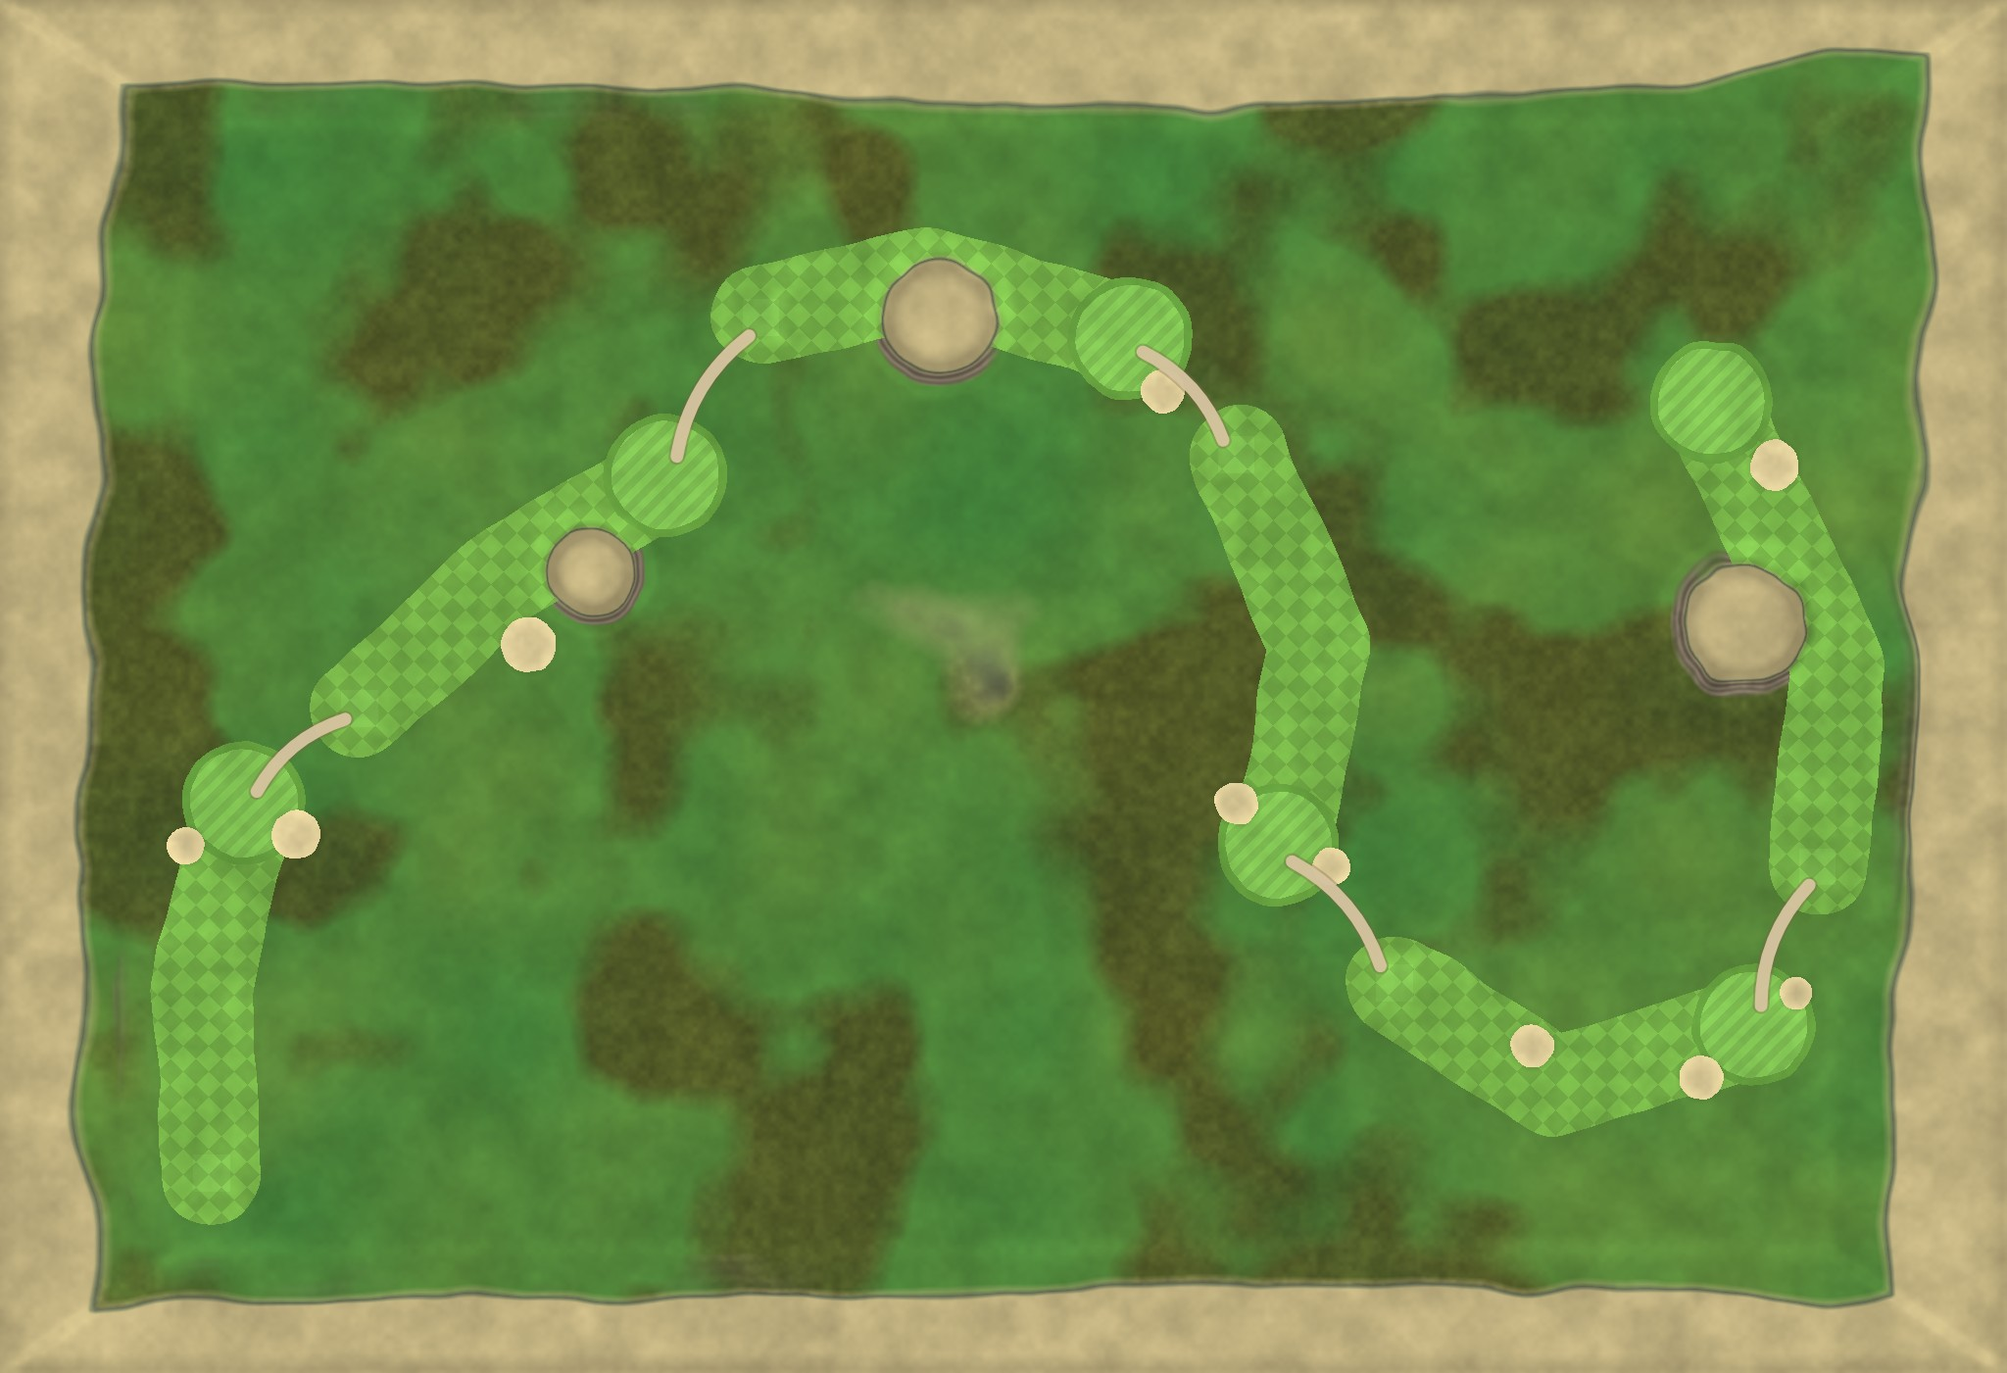
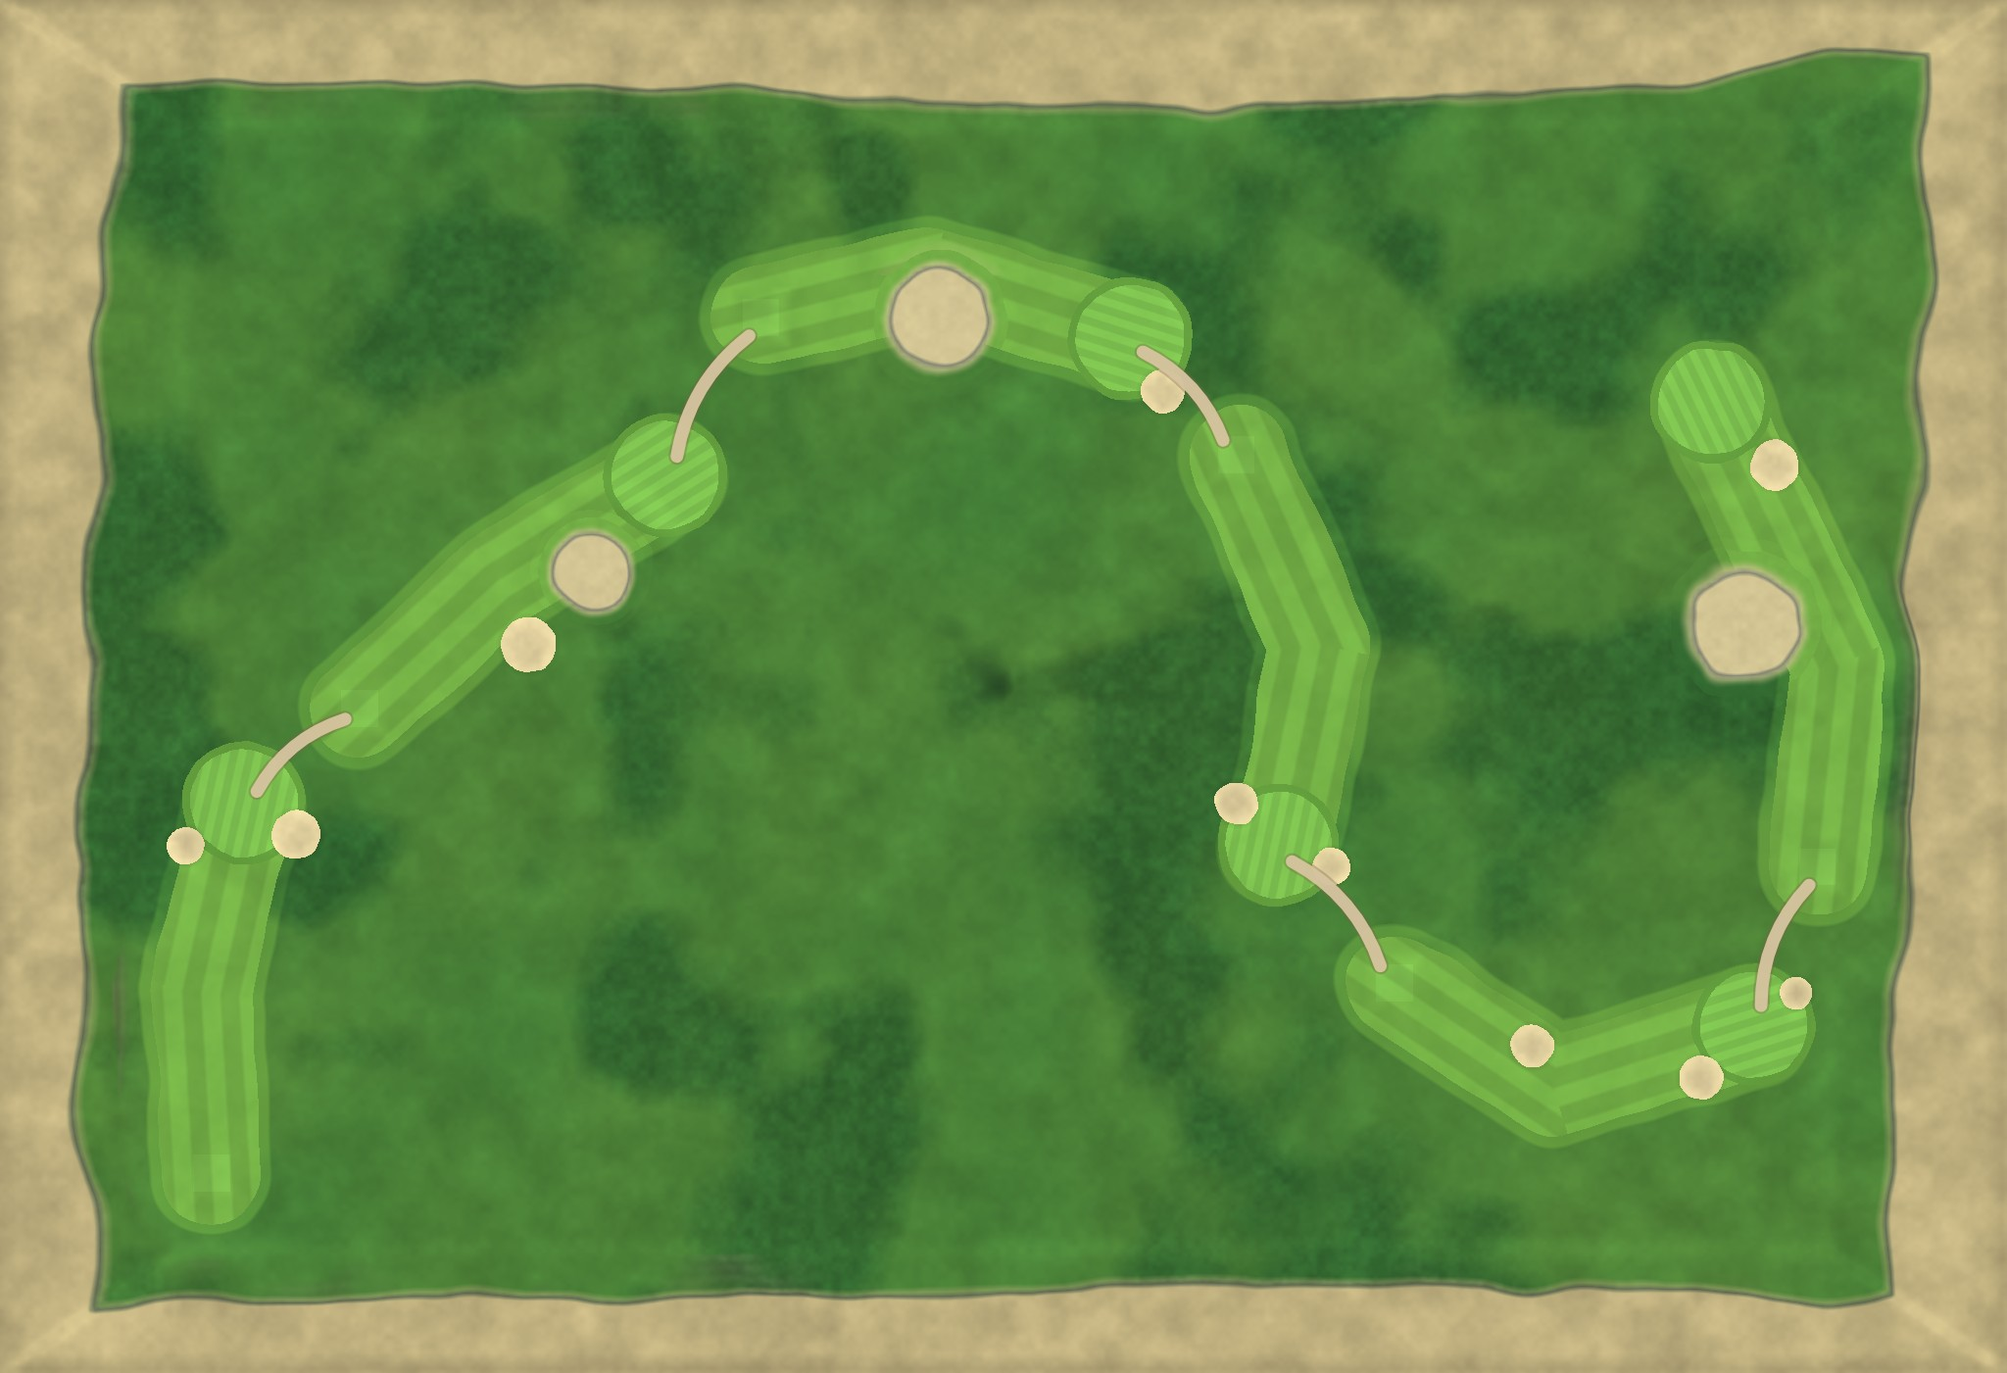
Golf: campo più bello — erba tagliata a corsie lungo la buca, primo taglio, filari di alberi ai lati, fiori ed erba a macchie, laghetti con riva dolce e bordo chiaro e canne, niente spiaggia in mezzo all'isola
Claude-Session: https://claude.ai/code/session_0116XgdFGSen8YWATGwCUeLy

diff --git a/caos/course.js b/caos/course.js
@@ -53,12 +53,16 @@ function build() {
       const td = Math.max(Math.abs(x - hole.tee[0]), Math.abs(z - hole.tee[1]));
       if (td < 6) { const th = teeH(hole), k = Math.min(1, (6 - td) / 2.5); h = h * (1 - k) + th * k; if (td < 3.5) s = S.TEE; }
       for (const [bx, bz, br] of hole.bunkers) { const d = Math.hypot(x - bx, z - bz) / br; if (d < 1.25) { h -= Math.max(0, 1 - d * d) * 0.7; if (d < 1) s = S.SAND; } }
-      for (const [px, pz, pr] of hole.ponds) { const d = Math.hypot(x - px, z - pz) / pr + (fbm(x * 0.15, z * 0.15, 2) - 0.5) * 0.3; if (d < 1.5) { const k = Math.min(1, (1.5 - d) / 0.55), e = k * k * (3 - 2 * k); h = h * (1 - e) + (-1.0) * e; } }
+      // laghetti: riva larga e dolce che scende quasi al pelo dell'acqua, poi una sponda corta (niente crateri)
+      for (const [px, pz, pr] of hole.ponds) { const d = pondD(x, z, px, pz, pr); if (d < 2.6) { const e = sstep(2.6, 1.05, d); h = h * (1 - e) + Math.min(h, WATER + 0.4) * e; const e2 = sstep(1.12, 0.72, d); h = h * (1 - e2) + (-1.1) * e2; } }
     }
     if (h < WATER + 0.05) s = S.WATER;
     HGT[j * NX + i] = h; SURF[j * NX + i] = s;
   }
 }
+function sstep(a, b, x) { const t = Math.max(0, Math.min(1, (x - a) / (b - a))); return t * t * (3 - 2 * t); }
+function pondD(x, z, px, pz, pr) { return Math.hypot(x - px, z - pz) / pr + (fbm(x * 0.15, z * 0.15, 2) - 0.5) * 0.3; }
+export function nearPond(x, z) { let m = 9; for (const h of HOLES) for (const [px, pz, pr] of h.ponds) m = Math.min(m, pondD(x, z, px, pz, pr)); return m; }
 const _gh = new Map();
 function greenH(h) { if (!_gh.has(h)) _gh.set(h, Math.max(1.6, rawHeightSmooth(...h.green) + 0.3)); return _gh.get(h); }
 function teeH(h) { return Math.max(1.8, rawHeightSmooth(...h.tee) + 0.4); }
@@ -109,32 +113,39 @@ export function terrainTexture(compute) {
   const cw = Math.min(2048, W * PX), ch = Math.round(cw * D / W), sx = cw / W;
   const c = document.createElement('canvas'); c.width = cw; c.height = ch; const g = c.getContext('2d');
   const img = g.createImageData(cw, ch), d = img.data;
-  const col = { [S.ROUGH]: [86, 136, 58], [S.FAIR]: [118, 178, 72], [S.GREEN]: [130, 196, 84], [S.FRINGE]: [104, 164, 64], [S.SAND]: [232, 214, 160], [S.WATER]: [70, 110, 60], [S.TEE]: [124, 186, 78], [S.OUT]: [70, 110, 60] };
+  const col = { [S.ROUGH]: [78, 132, 56], [S.FAIR]: [116, 176, 70], [S.GREEN]: [126, 194, 80], [S.FRINGE]: [100, 160, 62], [S.SAND]: [236, 218, 166], [S.WATER]: [70, 110, 60], [S.TEE]: [122, 184, 76], [S.OUT]: [70, 110, 60] };
+  // direzione di gioco più vicina (per le strisce del taglio, che seguono la buca)
+  const lane = (x, z) => { let best = 1e9, c = 0, along = 0; for (const h of HOLES) for (const [a, b] of [[h.tee, h.mid], [h.mid, h.green]]) { const [d, t] = segDist(x, z, ...a, ...b); if (d < best) { best = d; const dx = b[0] - a[0], dz = b[1] - a[1], l = Math.hypot(dx, dz); c = ((x - a[0]) * -dz + (z - a[1]) * dx) / l; along = t * l; } } return [c, along, best]; };
+  const sq = v => Math.max(-1, Math.min(1, v * 3.5)); // onda quadra con bordi morbidi
   for (let py = 0; py < ch; py++) for (let px = 0; px < cw; px++) {
     const x = X0 + px / sx, z = Z0 + py / sx, s = surfExact(x, z), h = heightAt(x, z);
     let [r, gg, b] = col[s];
     const n = fbm(x * 0.15, z * 0.15, 3) - 0.5, n2 = fbm(x * 0.6 + 9, z * 0.6, 2) - 0.5;
     let k = 1 + n * 0.22 + n2 * 0.08;
     if (s === S.FAIR || s === S.TEE) {
-      // taglio dell'erba a scacchi, come sui campi veri
-      const a = Math.floor((x * 0.7 + z * 0.7) / 3.4) % 2 === 0, bb = Math.floor((x * 0.7 - z * 0.7) / 3.4) % 2 === 0;
-      k *= a !== bb ? 1.065 : 0.95;
-    } else if (s === S.GREEN) { const a = Math.floor((x * 0.7 + z * 0.7) / 1.4) % 2 === 0; k *= a ? 1.05 : 0.96; }
-    if (s === S.ROUGH) { const dry = fbm(x * 0.03 + 50, z * 0.03, 2); r += (dry - 0.45) * 50; gg += (dry - 0.45) * 15; }
+      // taglio dell'erba a corsie lungo la buca, come sui campi veri (chiaro/scuro alternati)
+      const [c] = lane(x, z); k = 1 + n * 0.1 + n2 * 0.04; k *= 1 + 0.05 * sq(Math.sin(c * Math.PI / 3.6));
+    } else if (s === S.GREEN || s === S.FRINGE) { const [c] = lane(x, z); k = 1 + n * 0.06 + n2 * 0.03; if (s === S.GREEN) k *= 1 + 0.04 * sq(Math.sin(c * Math.PI / 1.5)); }
     if (s === S.ROUGH) {
-      // sottobosco più scuro dove ci sono i boschetti (stessa mappa di densità degli alberi)
+      // "primo taglio": fascia di erba media attorno al corridoio, poi il rough vero
+      let fd = 1e9; for (const hole of HOLES) fd = Math.min(fd, fairDist(hole, x, z)); fd += (fbm(x * 0.08, z * 0.08, 2) - 0.5) * 2.5;
+      if (fd < FAIR_W + 2.4) { const t = Math.min(1, (FAIR_W + 2.4 - fd) / 0.6); r = r * (1 - t) + 98 * t; gg = gg * (1 - t) + 156 * t; b = b * (1 - t) + 62 * t; k = 1 + n * 0.1; }
+      const dry = fbm(x * 0.03 + 50, z * 0.03, 2); r += (dry - 0.45) * 22; gg += (dry - 0.45) * 8;
+      // sottobosco: verde più scuro e muschioso dove ci sono i boschetti (stessa mappa di densità degli alberi)
       const dens = fbm(x * 0.03 + 11, z * 0.03 - 4, 3);
-      if (dens > 0.46) { const t = Math.min(1, (dens - 0.46) / 0.12); r = r * (1 - t * 0.35) + 30 * t; gg = gg * (1 - t * 0.3); b = b * (1 - t * 0.3); k *= 1 + (n2 * 0.25) * t; }
+      if (dens > 0.46) { const t = Math.min(1, (dens - 0.46) / 0.14); r *= 1 - t * 0.3; gg *= 1 - t * 0.18; b *= 1 - t * 0.12; k *= 1 + (n2 * 0.2) * t; }
     }
     if (s === S.SAND) k = 1 + n2 * 0.12;
     // pendii ripidi: roccia a strati
-    if (s === S.ROUGH) { const ny = normalAt(x, z, _nrm).y; if (ny < 0.9) { const t = Math.min(1, (0.9 - ny) / 0.18), band = 0.9 + 0.1 * Math.sin(h * 5 + n * 3); r = r * (1 - t) + 128 * band * t; gg = gg * (1 - t) + 116 * band * t; b = b * (1 - t) + 98 * band * t; } }
-    if (h < 0.8 && s !== S.SAND) { const t = Math.max(0, Math.min(1, (0.8 - h) / 1.2)); r = r * (1 - t) + 196 * t; gg = gg * (1 - t) + 180 * t; b = b * (1 - t) + 130 * t; } // spiaggia
+    const pd = nearPond(x, z);
+    if (s === S.ROUGH && pd > 1.4) { const ny = normalAt(x, z, _nrm).y; if (ny < 0.9) { const t = Math.min(1, (0.9 - ny) / 0.18), band = 0.9 + 0.1 * Math.sin(h * 5 + n * 3); r = r * (1 - t) + 128 * band * t; gg = gg * (1 - t) + 116 * band * t; b = b * (1 - t) + 98 * band * t; } }
+    if (pd < 1.4) { const t = sstep(1.25, 0.95, pd); r = r * (1 - t) + 214 * t; gg = gg * (1 - t) + 200 * t; b = b * (1 - t) + 150 * t; k = 1 + n2 * 0.1; } // riva del laghetto: erba scura, poi fango
+    else if (h < 0.8 && s !== S.SAND && Math.max(Math.abs((x - X0) / W * 2 - 1), Math.abs((z - Z0) / D * 2 - 1)) > 0.6) { const t = Math.max(0, Math.min(1, (0.8 - h) / 1.2)); r = r * (1 - t) + 196 * t; gg = gg * (1 - t) + 180 * t; b = b * (1 - t) + 130 * t; } // spiaggia
     if (h < WATER + 0.35 && h > WATER - 0.3) { const t = 1 - Math.abs(h - WATER - 0.02) / 0.33; r = r * (1 - t * 0.35); gg = gg * (1 - t * 0.3); b = b * (1 - t * 0.2); } // sabbia bagnata
     // bordo erboso più scuro attorno ai bunker
     if (s !== S.SAND) for (const hole of HOLES) for (const [bx, bz, br] of hole.bunkers) { const dd = Math.hypot(x - bx, z - bz) / br; if (dd > 0.95 && dd < 1.25) k *= 0.9 + (dd - 0.95) * 0.33; }
     // ombra delle conche, luce sui dossi (occlusione finta dal terreno)
-    { const avg = (heightAt(x + 3, z) + heightAt(x - 3, z) + heightAt(x, z + 3) + heightAt(x, z - 3)) / 4; k *= 1 - Math.max(-0.08, Math.min(0.16, (avg - h) * 0.22)); }
+    if (pd > 1.6) { const avg = (heightAt(x + 3, z) + heightAt(x - 3, z) + heightAt(x, z + 3) + heightAt(x, z - 3)) / 4; k *= 1 - Math.max(-0.08, Math.min(0.16, (avg - h) * 0.22)); }
     const o = (py * cw + px) * 4; d[o] = r * k; d[o + 1] = gg * k; d[o + 2] = b * k; d[o + 3] = 255;
   }
   g.putImageData(img, 0, 0);

diff --git a/caos/nature.js b/caos/nature.js
@@ -1,7 +1,7 @@
 // Alberi, cespugli, rocce, fiori ed erba (Stylized Nature MegaKit, CC0) sparsi sull'isola con istanze.
 import * as THREE from 'three';
 import { GLTFLoader } from 'three/addons/loaders/GLTFLoader.js';
-import { HOLES, X0, Z0, W, D, S, surfAt, heightAt, fairDist, rng, fbm, GREEN_R, WATER } from './course.js';
+import { HOLES, X0, Z0, W, D, S, surfAt, heightAt, fairDist, rng, fbm, GREEN_R, WATER, FAIR_W } from './course.js';
 
 export const wind = { value: 0 };
 export const trunks = []; // {x, z, r} per le collisioni
@@ -52,17 +52,35 @@ export async function loadNature(scene, { mobile = false, plants = 1, trees = 1,
     else if (fd > 10 && R() < 0.04) place[pick(['Bush_Common', 'Bush_Common_Flowers'])].push([x, z]);
     else if (fd > 9 && R() < 0.02) place[pick(['Rock_Medium_1', 'Rock_Medium_2', 'Rock_Medium_3'])].push([x, z]);
   }
-  // fiori, felci, funghi ed erba alta ai bordi dei corridoi (dove si gioca e si guarda)
-  for (let i = 0; i < 3600 * plants; i++) {
+  // filari di alberi che disegnano i lati delle buche (come sui campi veri), con buchi e variazioni
+  for (const h of HOLES) for (const [a, b] of [[h.tee, h.mid], [h.mid, h.green]]) {
+    const dx = b[0] - a[0], dz = b[1] - a[1], l = Math.hypot(dx, dz);
+    for (const sd of [-1, 1]) for (let u = 0; u < l; u += 6 + R() * 5) {
+      if (R() < 0.3) continue;
+      const off = sd * (FAIR_W + 8 + R() * 7), x = a[0] + dx * u / l + (-dz / l) * off + (R() - 0.5) * 3, z = a[1] + dz * u / l + (dx / l) * off + (R() - 0.5) * 3;
+      if (!land(x, z) || nearGreenOrTee(x, z, 6) || nearHole(x, z, FAIR_W + 6)) continue;
+      place[pick(['CommonTree_1', 'CommonTree_2', 'CommonTree_5', 'CommonTree_3'])].push([x, z]);
+      if (R() < 0.5) { const bx = x + (R() - 0.5) * 4, bz = z + (R() - 0.5) * 4; if (land(bx, bz) && !nearHole(bx, bz, FAIR_W + 4)) place[pick(['Bush_Common', 'Bush_Common_Flowers'])].push([bx, bz]); }
+    }
+  }
+  // fiori, felci, funghi ed erba alta a ciuffi (macchie raccolte, non sparse a caso) ai bordi dei corridoi
+  for (let i = 0; i < 260 * plants; i++) {
     const h = pick(HOLES), t = R(), a = t < 0.5 ? h.tee : h.mid, b = t < 0.5 ? h.mid : h.green, u = R();
-    const side = (R() < 0.5 ? -1 : 1) * (9.5 + R() * 18), dx = b[0] - a[0], dz = b[1] - a[1], l = Math.hypot(dx, dz);
-    const x = a[0] + dx * u + (-dz / l) * side, z = a[1] + dz * u + (dx / l) * side;
-    if (!land(x, z) || nearGreenOrTee(x, z, 3) || nearHole(x, z, 9.3)) continue;
-    const r = R();
-    if (r < 0.76) place[pick(['Grass_Common_Short', 'Grass_Wispy_Short'])].push([x, z]);
-    else if (r < 0.9) place[pick(['Flower_3_Group', 'Flower_4_Group'])].push([x, z]);
-    else if (r < 0.97) place.Fern_1.push([x, z]);
-    else place.Mushroom_Common.push([x, z]);
+    const side = (R() < 0.5 ? -1 : 1) * (FAIR_W + 3.5 + R() * 16), dx = b[0] - a[0], dz = b[1] - a[1], l = Math.hypot(dx, dz);
+    const cx = a[0] + dx * u + (-dz / l) * side, cz = a[1] + dz * u + (dx / l) * side;
+    const r = R(), kind = r < 0.55 ? ['Grass_Common_Short', 'Grass_Wispy_Short'] : r < 0.85 ? ['Flower_3_Group', 'Flower_4_Group'] : r < 0.95 ? ['Fern_1'] : ['Mushroom_Common'];
+    const n = kind[0] === 'Mushroom_Common' ? 2 + Math.floor(R() * 3) : 5 + Math.floor(R() * 9), rad = 0.8 + R() * 1.6;
+    for (let j = 0; j < n; j++) {
+      const an = R() * Math.PI * 2, rr = Math.sqrt(R()) * rad, x = cx + Math.cos(an) * rr, z = cz + Math.sin(an) * rr;
+      if (!land(x, z) || nearGreenOrTee(x, z, 3) || nearHole(x, z, FAIR_W + 3)) continue;
+      place[pick(kind)].push([x, z]);
+    }
+  }
+  // canne e ciuffi lungo le rive dei laghetti
+  for (const h of HOLES) for (const [px, pz, pr] of h.ponds) for (let i = 0; i < 22; i++) {
+    const an = R() * Math.PI * 2, cx = px + Math.cos(an) * pr * (1.12 + R() * 0.15), cz = pz + Math.sin(an) * pr * (1.12 + R() * 0.15);
+    if (nearHole(cx, cz, FAIR_W + 1) || nearGreenOrTee(cx, cz, 3)) continue;
+    for (let j = 0, n = 3 + Math.floor(R() * 5); j < n; j++) { const x = cx + (R() - 0.5) * 1.6, z = cz + (R() - 0.5) * 1.6; if (heightAt(x, z) > WATER + 0.12) place[R() < 0.8 ? 'Grass_Wispy_Short' : 'Fern_1'].push([x, z]); }
   }
   // istanze, divise a blocchi di 48 m: così si disegna solo quello che la telecamera vede
   const dummy = new THREE.Object3D();

diff --git a/telecomando.js b/telecomando.js
@@ -5,7 +5,7 @@ let lastTap = 0; document.addEventListener('touchend', e => { const n = Date.now
 // se lo zoom è comunque scattato, si rimette a posto da solo
 if (window.visualViewport) visualViewport.addEventListener('resize', () => { if (visualViewport.scale > 1.01) { const m = document.querySelector('meta[name=viewport]'); const c = m.content; m.content = c + ',minimum-scale=1'; setTimeout(() => { m.content = c; }, 50); } });
 // versione: se il telefono ha in memoria file vecchi, si ricarica da solo con quelli nuovi
-const BUILD = '202611230201';
+const BUILD = '202611230238';
 fetch('build.txt?' + Date.now(), { cache: 'no-store' }).then(r => r.ok ? r.text() : '').then(v => { v = (v || '').trim(); if (v && v !== BUILD && sessionStorage.getItem('ridotto-reload') !== v) { sessionStorage.setItem('ridotto-reload', v); const u = new URL(location.href); u.searchParams.set('_v', v); location.replace(u.href); } }).catch(() => { });
 // Telefono come controller di movimento (bowling; in futuro ping pong).
 import { joinRoom } from './net.js';

diff --git a/bowling_old.html b/bowling_old.html
@@ -138,6 +138,6 @@ input.nmi{font:inherit;font-size:17px;color:var(--ink);background:rgba(0,0,0,.35
 <script src="vendor/qrcode.js"></script>
 <script src="vendor/peerjs.min.js"></script>
 <script type="importmap">{"imports":{"three":"./vendor/three.module.js","three/addons/":"./vendor/jsm/","cannon-es":"./vendor/cannon-es.js"}}</script>
-<script type="module" src="bowling/game.js?v=202611230201"></script>
+<script type="module" src="bowling/game.js?v=202611230238"></script>
 </body>
 </html>

diff --git a/minigolf.html b/minigolf.html
@@ -125,6 +125,6 @@ input.nmi{font:inherit;font-size:17px;color:var(--ink);background:rgba(0,0,0,.35
 <script src="vendor/qrcode.js"></script>
 <script src="vendor/peerjs.min.js"></script>
 <script type="importmap">{"imports":{"three":"./vendor/three.module.js","three/addons/":"./vendor/jsm/","cannon-es":"./vendor/cannon-es.js"}}</script>
-<script type="module" src="golf/game.js?v=202611230201"></script>
+<script type="module" src="golf/game.js?v=202611230238"></script>
 </body>
 </html>

diff --git a/bowling.html b/bowling.html
@@ -115,6 +115,6 @@ a.lnk{color:var(--blue);font-weight:600;text-decoration:none}
 <script src="vendor/qrcode.js"></script>
 <script src="vendor/peerjs.min.js"></script>
 <script type="importmap">{"imports":{"three":"./vendor/three.module.js","three/addons/":"./vendor/jsm/","cannon-es":"./vendor/cannon-es.js"}}</script>
-<script type="module" src="bowling/main.js?v=202611230201"></script>
+<script type="module" src="bowling/main.js?v=202611230238"></script>
 </body>
 </html>

diff --git a/pingpong.html b/pingpong.html
@@ -144,6 +144,6 @@ input.nmi{background:#eef3ff;border:none;border-radius:999px;color:var(--ink)}
 <script src="vendor/qrcode.js"></script>
 <script src="vendor/peerjs.min.js"></script>
 <script type="importmap">{"imports":{"three":"./vendor/three.module.js","three/addons/":"./vendor/jsm/"}}</script>
-<script type="module" src="pong/game.js?v=202611230201"></script>
+<script type="module" src="pong/game.js?v=202611230238"></script>
 </body>
 </html>

diff --git a/golf.html b/golf.html
@@ -126,6 +126,6 @@ a.lnk{color:var(--blue);font-weight:600;text-decoration:none}
 <script src="vendor/qrcode.js"></script>
 <script src="vendor/peerjs.min.js"></script>
 <script type="importmap">{"imports":{"three":"./vendor/three.module.js","three/addons/":"./vendor/jsm/"}}</script>
-<script type="module" src="caos/main.js?v=202611230201"></script>
+<script type="module" src="caos/main.js?v=202611230238"></script>
 </body>
 </html>

diff --git a/telecomando.html b/telecomando.html
@@ -162,6 +162,6 @@ input{background:#fff;color:var(--ink);border:none;box-shadow:0 3px 0 rgba(0,0,0
 </div>
 <script src="vendor/peerjs.min.js"></script>
 <script type="importmap">{"imports":{"three":"./vendor/three.module.js","three/addons/":"./vendor/jsm/"}}</script>
-<script type="module" src="telecomando.js?v=202611230201"></script>
+<script type="module" src="telecomando.js?v=202611230238"></script>
 </body>
 </html>

diff --git a/biliardo.html b/biliardo.html
@@ -155,6 +155,6 @@ input.nmi{font:inherit;font-size:18px;color:var(--ink);background:rgba(0,0,0,.35
 
 <script src="vendor/peerjs.min.js"></script>
 <script type="importmap">{"imports":{"three":"./vendor/three.module.js","three/addons/":"./vendor/jsm/"}}</script>
-<script type="module" src="pool/game.js?v=202611230201"></script>
+<script type="module" src="pool/game.js?v=202611230238"></script>
 </body>
 </html>

diff --git a/avatar.html b/avatar.html
@@ -51,6 +51,6 @@ button{font:inherit;color:inherit;cursor:pointer;border:none}
 </div>
 <div id="toast"></div>
 <script type="importmap">{"imports":{"three":"./vendor/three.module.js","three/addons/":"./vendor/jsm/"}}</script>
-<script type="module" src="avatar/camerino.js?v=202611230201"></script>
+<script type="module" src="avatar/camerino.js?v=202611230238"></script>
 </body>
 </html>

diff --git a/play.html b/play.html
@@ -98,6 +98,6 @@ p { margin: 0; } .muted { color: rgba(239,227,198,.72); font-weight: 500; } .it 
   <main id="main"></main>
 </div>
 <script src="vendor/peerjs.min.js"></script>
-<script type="module" src="play.js?v=202611230201"></script>
+<script type="module" src="play.js?v=202611230238"></script>
 </body>
 </html>
